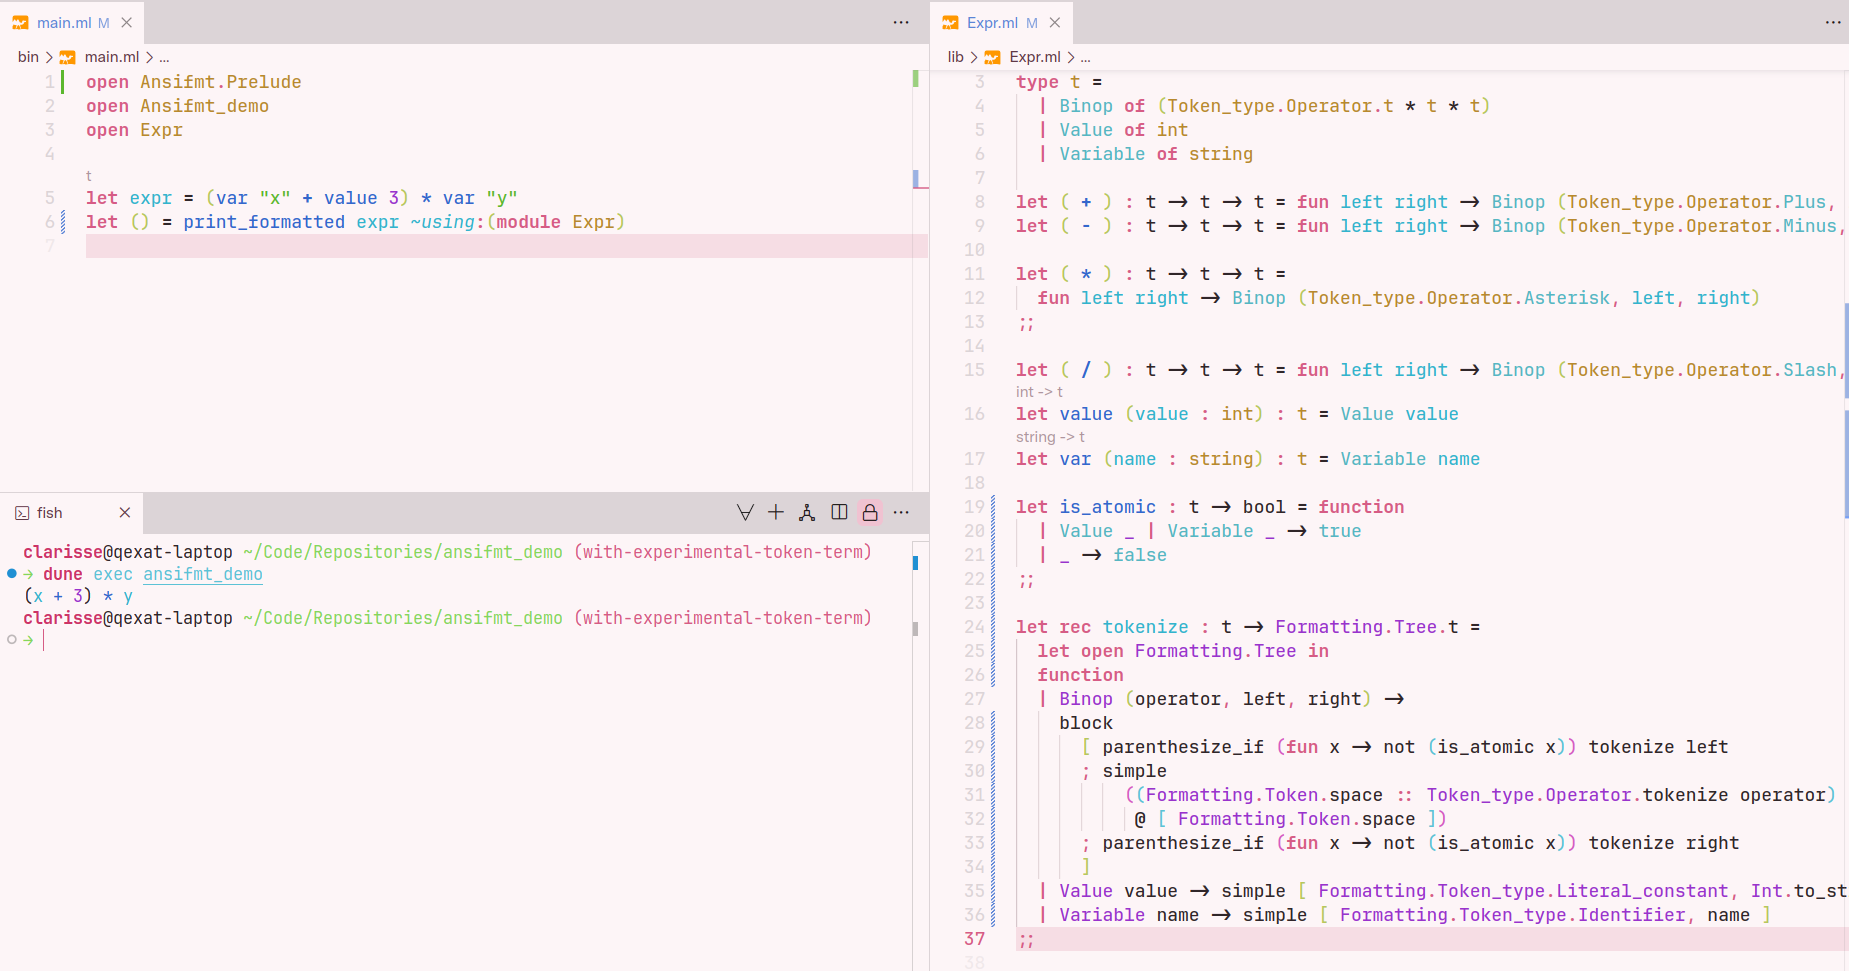
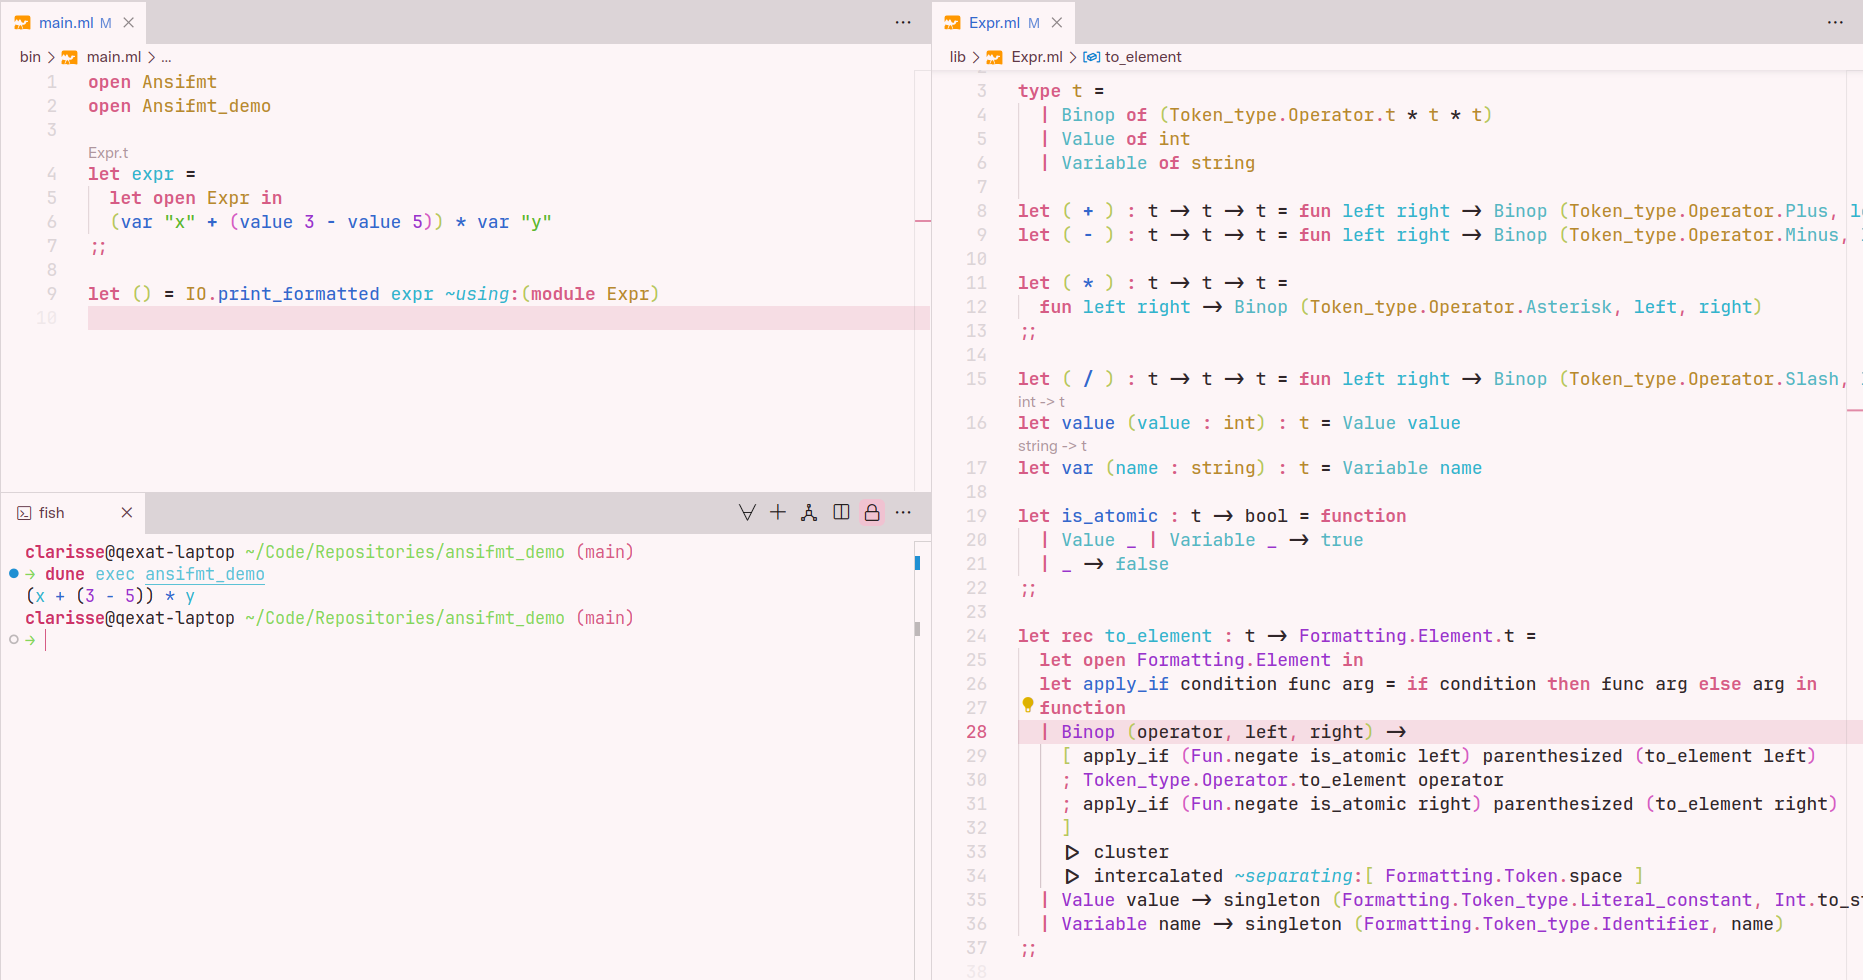
Move to Ansifmt 0.3.0

diff --git a/README.md b/README.md
@@ -6,6 +6,6 @@ A very simple project that makes use of [`ansifmt`](https://opam.ocaml.org/packa
 
 > Theme: [Rosalie](https://github.com/qexat/rosalie)
 
-![Screenshot Kalmia](./assets/screenshot_kalmia.png)
+![Screenshot Atom](./assets/screenshot_atom.png)
 
-> Theme: [Kalmia](https://github.com/qexat/kalmia-theme)
+> Theme: Atom One Dark
